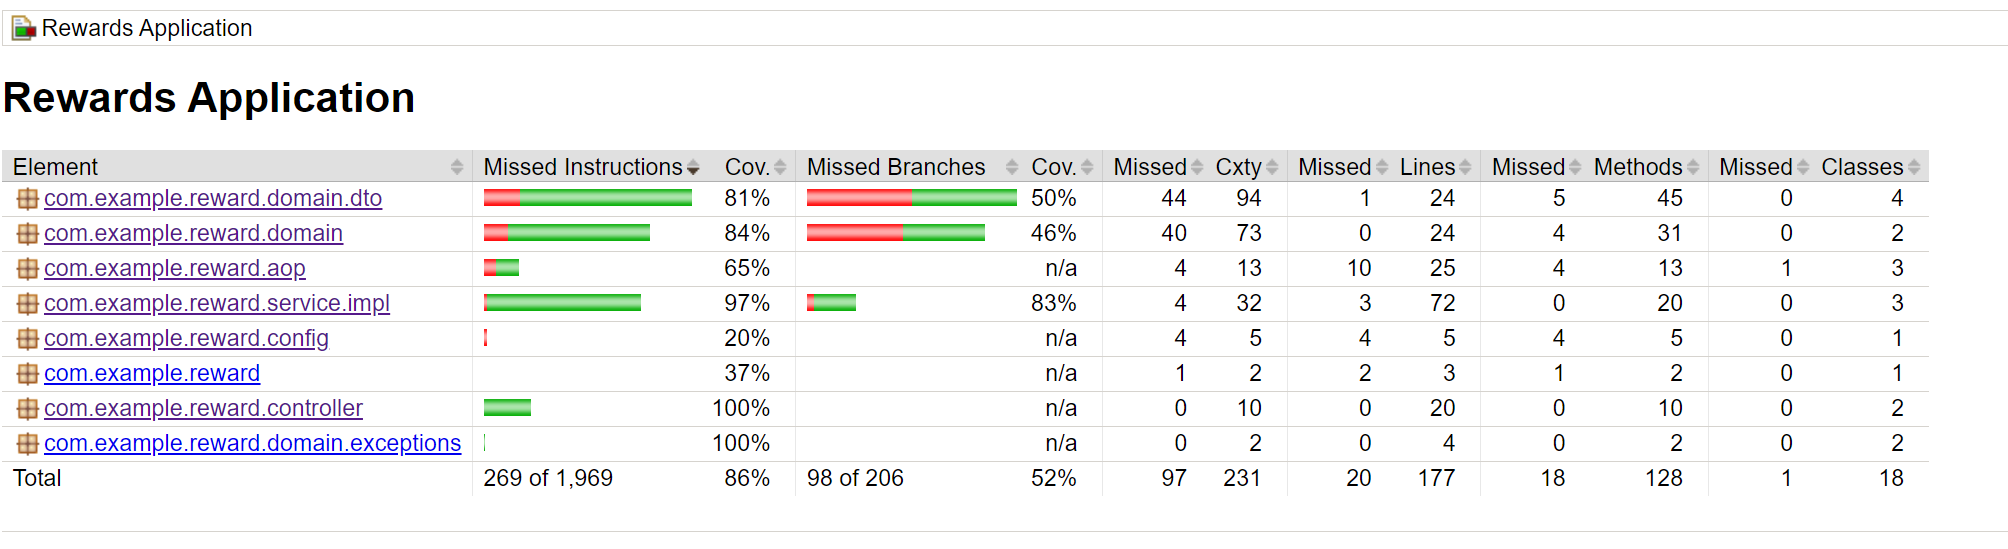
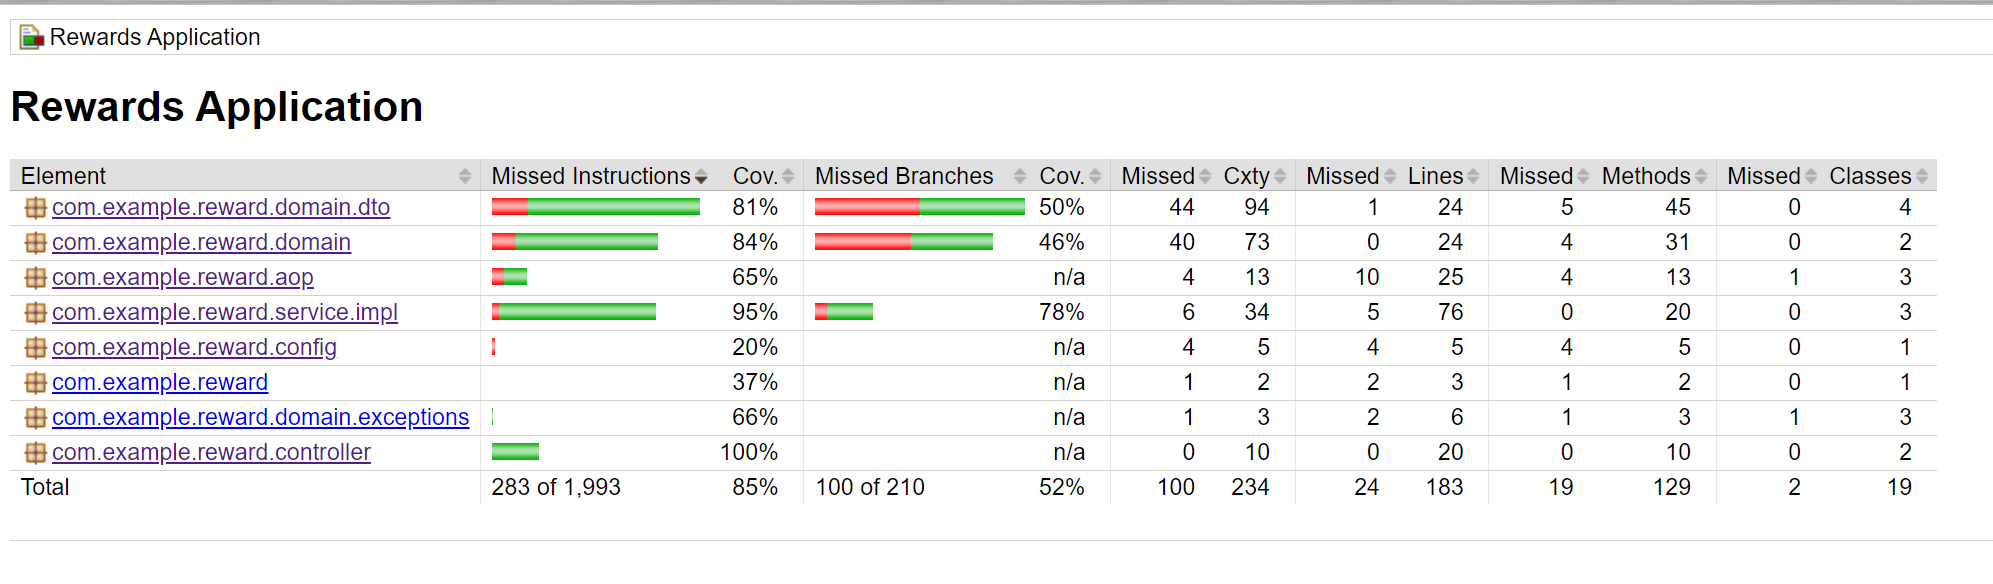
bug fix

diff --git a/src/main/java/com/example/reward/service/impl/CalculationService.java b/src/main/java/com/example/reward/service/impl/CalculationService.java
@@ -3,6 +3,7 @@ package com.example.reward.service.impl;
 import com.example.reward.config.RewardsConfig;
 import com.example.reward.domain.Transaction;
 import com.example.reward.domain.UserReward;
+import com.example.reward.domain.exceptions.IllegalTransactionException;
 import com.example.reward.service.ICalculationService;
 import org.springframework.beans.factory.annotation.Autowired;
 import org.springframework.stereotype.Service;
@@ -57,6 +58,9 @@ public class CalculationService implements ICalculationService {
      * @return reward points
      */
     public Integer calculateRewardPoints(Transaction transaction) {
+        if (transaction.getAmount().compareTo(BigDecimal.ZERO) < 0) {
+            throw new IllegalTransactionException("Transaction amount cannot be negative");
+        }
         BigDecimal total = transaction.getAmount();
         BigDecimal points = BigDecimal.valueOf(0);
         if (total.compareTo(rewardsConfig.getLevel2()) > 0) {
@@ -67,6 +71,9 @@ public class CalculationService implements ICalculationService {
         if (total.compareTo(rewardsConfig.getLevel1()) > 0) {
             BigDecimal first = total.subtract(rewardsConfig.getLevel1()).multiply(rewardsConfig.getLevel1Points());
             points = points.add(first);
+        }
+        if (points.compareTo(BigDecimal.valueOf(Integer.MAX_VALUE)) > 0) {
+            throw new IllegalTransactionException("Points exceed the maximum value");
         }
         return points.intValue();
     }

diff --git a/src/main/java/com/example/reward/domain/exceptions/IllegalTransactionException.java b/src/main/java/com/example/reward/domain/exceptions/IllegalTransactionException.java
@@ -1,0 +1,7 @@
+package com.example.reward.domain.exceptions;
+
+public class IllegalTransactionException extends RuntimeException {
+    public IllegalTransactionException(String message) {
+        super(message);
+    }
+}
